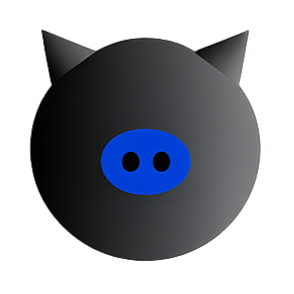
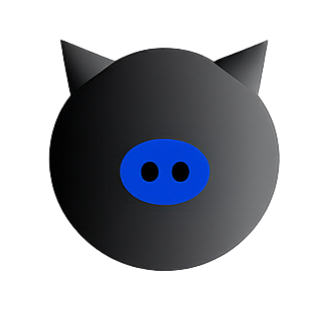
add:アイコンを追加

diff --git a/app/frontend/src/app/app.html b/app/frontend/src/app/app.html
@@ -1,12 +1,5 @@
 <main>
-  <a [routerLink]="['/']">
-    <header class="brand-name">
-      <div class="header-logo-container">
-        <img class="brand-logo" src="pig-icon.png" alt="logo" aria-hidden="true" />
-        <h1 class="header-title">Budget-app</h1>
-      </div>
-    </header>
-  </a>
+  <app-header></app-header>
   <section class="content">
     <router-outlet></router-outlet>
   </section>

diff --git a/app/frontend/src/app/app.ts b/app/frontend/src/app/app.ts
@@ -1,10 +1,11 @@
 import { Component, signal } from '@angular/core';
 import { RouterOutlet, RouterModule } from '@angular/router';
+import { Header } from './components/header/header';
 
 @Component({
   selector: 'app-root',
   standalone: true,
-  imports: [RouterOutlet, RouterModule],
+  imports: [RouterOutlet, RouterModule, Header],
   templateUrl: './app.html',
   styleUrl: './app.css'
 })

diff --git a/app/frontend/src/styles.css b/app/frontend/src/styles.css
@@ -1,1 +1,12 @@
 /* You can add global styles to this file, and also import other style files */
+* {
+  margin: 0;
+  padding: 0;
+  box-sizing: border-box;
+  background-color: black;
+  color: white;
+}
+a,
+u {
+  text-decoration: none;
+}

diff --git a/app/frontend/src/app/app.routes.ts b/app/frontend/src/app/app.routes.ts
@@ -11,7 +11,7 @@ export const routes: Routes = [
   {
     path: '',
     component: Home,
-    title: 'Home',
+    title: 'Budget',
   },
   {
     path: 'calender',
